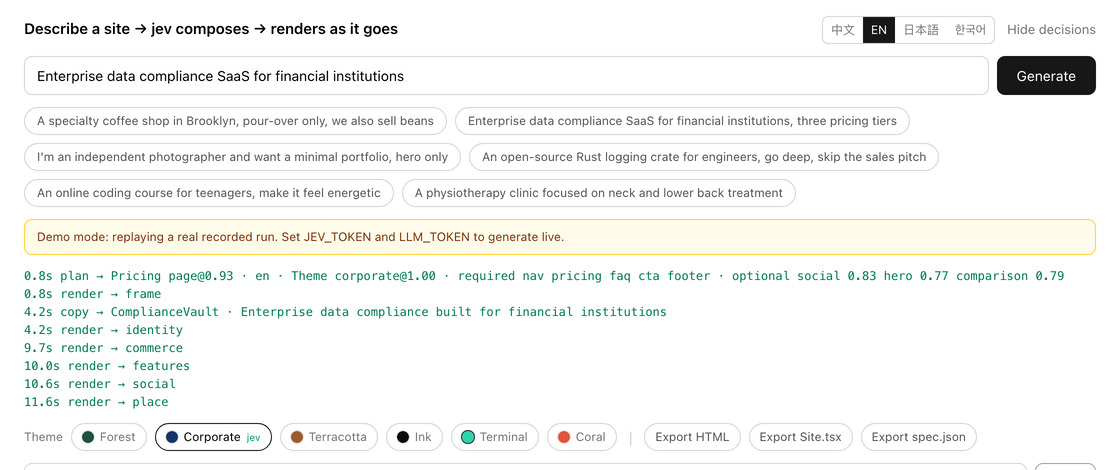
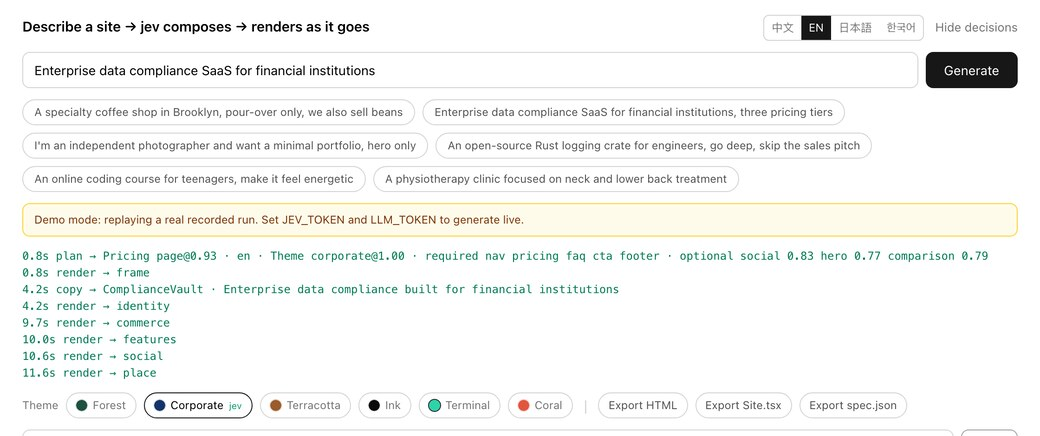
docs: give each translation screenshots in its own language
The Chinese, Japanese and Korean READMEs were illustrated with an English
generated site and an English editor. The screenshots are of output, so they
have a language of their own, and showing a Chinese reader an English result is
backwards.

Each translation now carries its own recording, theme grid and decision log,
captured with that locale and the matching fixture. The Chinese one shows
线下门店页@1.00 and 暖陶土 with the jev marker; the others likewise.

Kept to 2.7 MB by trimming the trailing still frames from each recording and
dropping the GIFs to 520px at 5fps and 40 colours. The trailing seconds were
the finished page sitting motionless, which the still images already show.

The consistency test changed shape with them: instead of requiring all four to
embed an identical set, it now requires each to embed only files suffixed with
its own language, and separately that every language carries the same kinds of
screenshot. Both halves matter — the first catches a translation reusing
another's images, the second catches one quietly dropping a figure.

diff --git a/lib/docs.test.ts b/lib/docs.test.ts
@@ -88,15 +88,31 @@ describe("READMEs", () => {
     }
   });
 
-  it("embeds the same set of images everywhere", () => {
-    const names = (text: string) =>
-      [...text.matchAll(/<img[^>]+src="[^"]*?([\w.-]+\.(?:png|jpg|gif))"/g)]
+  it("shows each language its own screenshots", () => {
+    // A Chinese README illustrated with an English site is backwards; the
+    // images are of generated output, so they have a language of their own.
+    for (const [lang, text] of Object.entries(texts)) {
+      const names = [...text.matchAll(/<img[^>]+src="[^"]*?([\w.-]+\.(?:png|jpg|gif))"/g)].map(
+        (m) => m[1]!,
+      );
+      expect(names.length, `${lang} embeds no local images`).toBeGreaterThan(0);
+      for (const name of names) {
+        expect(name, `${lang} embeds ${name}, which belongs to another language`).toMatch(
+          new RegExp(`-${lang}\\.(gif|jpg|png)$`),
+        );
+      }
+    }
+  });
+
+  it("gives every language the same kinds of screenshot", () => {
+    const kinds = (text: string) =>
+      [...text.matchAll(/<img[^>]+src="[^"]*?([\w.-]+?)-[a-z]+\.(?:png|jpg|gif)"/g)]
         .map((m) => m[1]!)
         .sort();
-    const reference = names(texts.en!);
+    const reference = kinds(texts.en!);
     expect(reference.length).toBeGreaterThan(0);
     for (const [lang, text] of Object.entries(texts)) {
-      expect(names(text), `${lang} embeds a different set of images`).toEqual(reference);
+      expect(kinds(text), `${lang} is missing a screenshot the others have`).toEqual(reference);
     }
   });
 

diff --git a/docs/README.ja.md b/docs/README.ja.md
@@ -17,7 +17,7 @@
 商売を一文で説明すると、そのまま使えるランディングページが返ってきます。
 
 <p align="center">
-  <img src="../docs/images/generate-en.gif" alt="スケルトンにブロックが順に流し込まれていく様子" width="640">
+  <img src="../docs/images/generate-ja.gif" alt="スケルトンにブロックが順に流し込まれていく様子" width="640">
 </p>
 
 ```
@@ -103,7 +103,7 @@ cp .env.example .env.local   # JEV_TOKEN と LLM_TOKEN を記入
 ## 生成後の修正
 
 <p align="center">
-  <img src="../docs/images/decisions-en.jpg" alt="判断ログとテーマ切り替えを含むエディタ画面" width="820">
+  <img src="../docs/images/decisions-ja.jpg" alt="判断ログとテーマ切り替えを含むエディタ画面" width="820">
 </p>
 
 Jev が下した判断と確信度、到着時刻がすべて並びます。修正が外れても原因を追えます。
@@ -189,7 +189,7 @@ Brooklyn の行が `0.66` と低いのも妥当です。英語の一文がどの
 ## テーマはデータ
 
 <p align="center">
-  <img src="../docs/images/themes-6up-en.jpg" alt="同じサイトを 6 つのテーマで表示したもの" width="820">
+  <img src="../docs/images/themes-ja.jpg" alt="同じサイトを 6 つのテーマで表示したもの" width="820">
 </p>
 
 同じ文章を 6 テーマで。切り替えはクライアント側の prop 一つの変更で、モデルは呼ばれず再生成も起きません。

diff --git a/docs/README.ko.md b/docs/README.ko.md
@@ -17,7 +17,7 @@
 사업을 한 문장으로 설명하면, 바로 쓸 수 있는 랜딩 페이지가 나옵니다.
 
 <p align="center">
-  <img src="../docs/images/generate-en.gif" alt="스켈레톤에 블록이 하나씩 채워지는 모습" width="640">
+  <img src="../docs/images/generate-ko.gif" alt="스켈레톤에 블록이 하나씩 채워지는 모습" width="640">
 </p>
 
 ```
@@ -103,7 +103,7 @@ cp .env.example .env.local   # JEV_TOKEN 과 LLM_TOKEN 기입
 ## 생성 후 수정
 
 <p align="center">
-  <img src="../docs/images/decisions-en.jpg" alt="판단 로그와 테마 선택기가 있는 에디터" width="820">
+  <img src="../docs/images/decisions-ko.jpg" alt="판단 로그와 테마 선택기가 있는 에디터" width="820">
 </p>
 
 Jev가 내린 모든 판단과 확신도, 도착 시각이 그대로 드러납니다. 수정이 빗나가도 원인을 추적할 수 있습니다.
@@ -189,7 +189,7 @@ Brooklyn 줄이 `0.66`으로 낮은 것도 타당합니다. 영어 한 문장이
 ## 테마는 데이터
 
 <p align="center">
-  <img src="../docs/images/themes-6up-en.jpg" alt="같은 사이트를 여섯 테마로 렌더링한 모습" width="820">
+  <img src="../docs/images/themes-ko.jpg" alt="같은 사이트를 여섯 테마로 렌더링한 모습" width="820">
 </p>
 
 같은 문구를 여섯 테마로. 전환은 클라이언트 prop 하나를 바꾸는 일이며 모델 호출도 재생성도 없습니다.

diff --git a/docs/README.zh.md b/docs/README.zh.md
@@ -17,7 +17,7 @@
 一句话描述你的生意，得到一个能用的落地页。
 
 <p align="center">
-  <img src="../docs/images/generate-en.gif" alt="骨架屏按区块逐个填入真实文案" width="640">
+  <img src="../docs/images/generate-zh.gif" alt="骨架屏按区块逐个填入真实文案" width="640">
 </p>
 
 ```
@@ -103,7 +103,7 @@ cp .env.example .env.local   # 填 JEV_TOKEN 和 LLM_TOKEN
 ## 能改什么
 
 <p align="center">
-  <img src="../docs/images/decisions-en.jpg" alt="编辑器，含决策日志和主题选择器" width="820">
+  <img src="../docs/images/decisions-zh.jpg" alt="编辑器，含决策日志和主题选择器" width="820">
 </p>
 
 jev 做过的每个判断、置信度和落地时间都摊开。改错了能查，而不是一团迷雾。
@@ -189,7 +189,7 @@ Brooklyn 那条 `0.66` 偏低也是对的：一句英文描述没有明示要什
 ## 主题即数据
 
 <p align="center">
-  <img src="../docs/images/themes-6up-en.jpg" alt="同一个站点在六套主题下的样子" width="820">
+  <img src="../docs/images/themes-zh.jpg" alt="同一个站点在六套主题下的样子" width="820">
 </p>
 
 同一份生成的文案，六套主题。切换只是客户端改一个 prop——不调模型，不重新生成。

diff --git a/README.md b/README.md
@@ -189,7 +189,7 @@ Size-wise it only saves 16% (Tailwind was never the problem). The real gain is t
 ## Themes are data
 
 <p align="center">
-  <img src="docs/images/themes-6up-en.jpg" alt="The same generated site under all six themes" width="820">
+  <img src="docs/images/themes-en.jpg" alt="The same generated site under all six themes" width="820">
 </p>
 
 The same generated copy under all six themes. Switching is a single client-side prop change — no model call, no regeneration.
